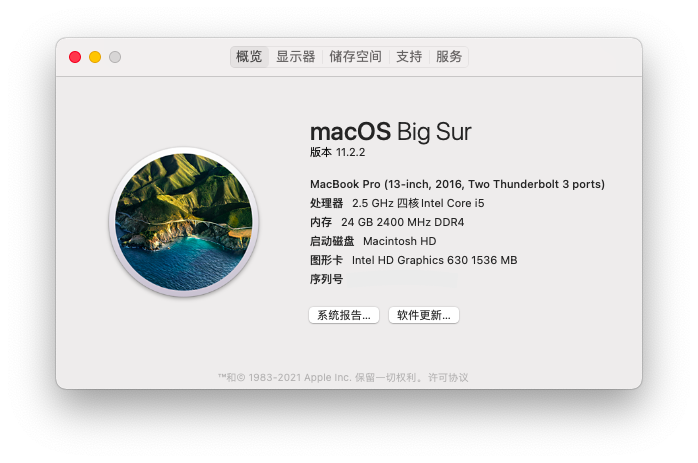
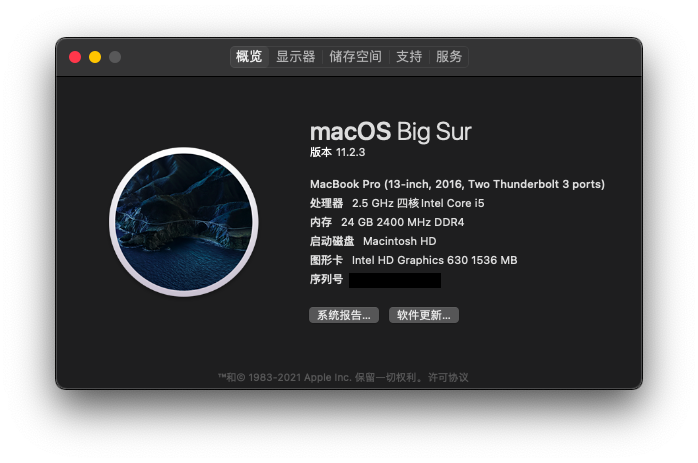
更新 README 及图片

diff --git a/README.MD b/README.MD
@@ -32,9 +32,9 @@
   <h3 align="center">OMEN-By-HP-15-ax225TX-Hackintosh-EFI</h3>
 
   本仓库内容适用于暗影精灵 2 Pro 的 基于 OpenCore 的 Hackintosh EFI
-   - 支持系统: macOS BigSur 11.2.2 (20D80)
-   - OpenCore 版本: OpenCore Release v0.6.7 commit @cbd2fa3
-   - 最后更新日期: 2021-03-04
+   - 支持系统: macOS BigSur 11.2.3 (20D91)
+   - OpenCore 版本: OpenCore Release v0.6.8 commit @c528597
+   - 最后更新日期: 2021-04-07
 
   **仓库内容归个人所有 转载请标明出处**
 </p>
@@ -58,7 +58,7 @@
 | 分类 | 说明 | 备注 |
 |:----:|:----:|:----:|
 | 型号 | OEMN-By-HP-15-ax225TX | 暗影精灵 2 Pro 暗夜绿
-| 主板 | HP 8259 |  BIOS 版本 F.55 Rev.A
+| 主板 | HP 8259 |  BIOS 版本 F.56 Rev.A
 | CPU | Intel Core™ i5-7300HQ | 七代 I5(Kaby Lake)
 | 内存 | 24GB DDR4 2400 Mhz | 自带 8GB + 后购入 16GB
 | 固态 | KIOXIA-EXCERIA PLUS G2 SSD | 更换 铠侠™ RD20 NVME SSD
